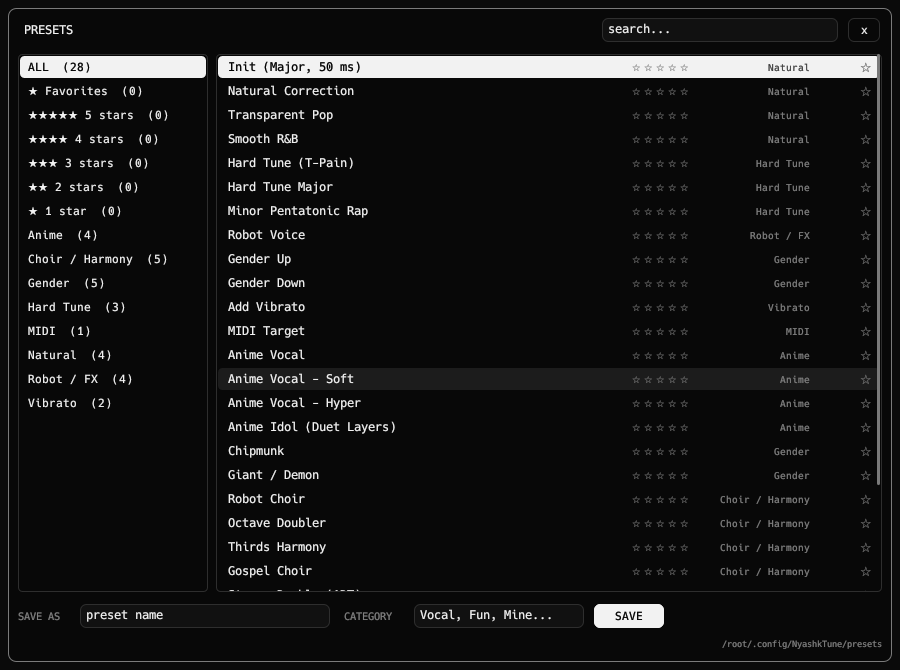
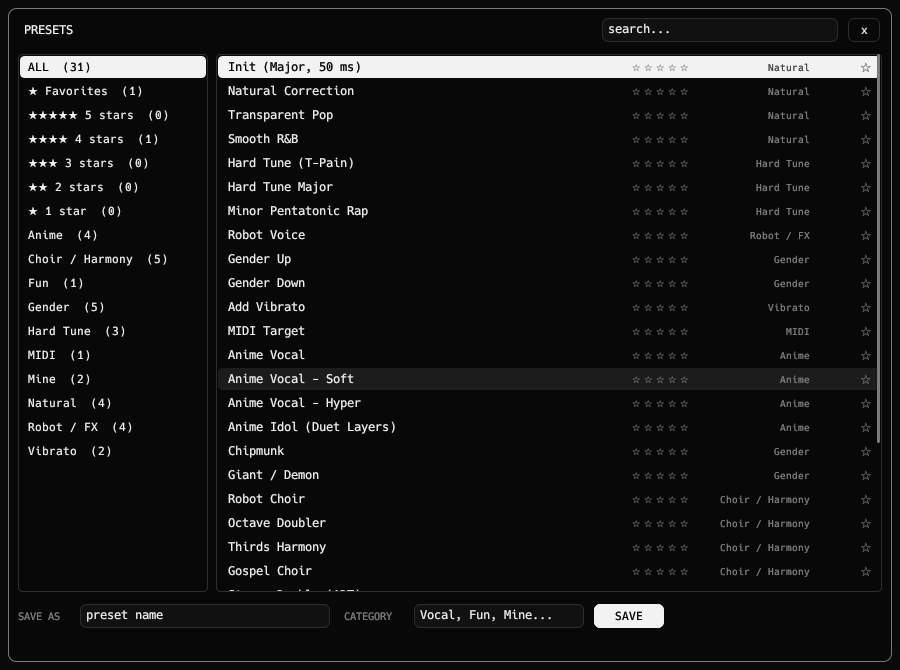
Preset browser like the synth: category folders, right-click Delete / Open folder; README and screenshots updated
Claude-Session: https://claude.ai/code/session_01EndxvcXZsUxUuBFyUHCgZr

diff --git a/plugins/nyashktune/src/editor.rs b/plugins/nyashktune/src/editor.rs
@@ -440,26 +440,51 @@ fn clean_preset_name(n: &str) -> String {
     n.trim().chars().filter(|c| !c.is_control() && !"/\\:*?\"<>|".contains(*c)).collect::<String>().trim().to_string()
 }
 
+fn user_path(name: &str, cat: &str) -> Option<std::path::PathBuf> {
+    let d = preset_dir()?;
+    let sub = d.join(cat).join(format!("{name}.nytune"));
+    if cat != "User" && sub.is_file() {
+        return Some(sub);
+    }
+    Some(d.join(format!("{name}.nytune")))
+}
+
+/// (name, category). Files inside a category folder belong to that category;
+/// loose files in the root use their `@cat=` line (or "User").
 fn list_user_presets() -> Vec<(String, String)> {
     let mut v: Vec<(String, String)> = Vec::new();
-    if let Some(d) = preset_dir() {
-        if let Ok(rd) = std::fs::read_dir(d) {
+    let Some(root) = preset_dir() else { return v };
+    let mut scan = |dir: &std::path::Path, folder_cat: Option<&str>| {
+        if let Ok(rd) = std::fs::read_dir(dir) {
             for e in rd.flatten() {
                 let path = e.path();
                 if path.extension().and_then(|x| x.to_str()) == Some("nytune") {
                     if let Some(n) = path.file_stem().and_then(|x| x.to_str()) {
-                        let cat = std::fs::read_to_string(&path)
-                            .ok()
-                            .and_then(|t| t.lines().find_map(|l| l.strip_prefix("@cat=").map(|c| c.trim().to_string())))
-                            .filter(|c| !c.is_empty())
-                            .unwrap_or_else(|| "User".to_string());
+                        let cat = match folder_cat {
+                            Some(c) => c.to_string(),
+                            None => std::fs::read_to_string(&path)
+                                .ok()
+                                .and_then(|t| t.lines().find_map(|l| l.strip_prefix("@cat=").map(|c| c.trim().to_string())))
+                                .filter(|c| !c.is_empty())
+                                .unwrap_or_else(|| "User".to_string()),
+                        };
                         v.push((n.to_string(), cat));
                     }
                 }
             }
         }
+    };
+    scan(&root, None);
+    if let Ok(rd) = std::fs::read_dir(&root) {
+        for e in rd.flatten() {
+            if e.path().is_dir() {
+                if let Some(c) = e.file_name().to_str() {
+                    scan(&e.path(), Some(c));
+                }
+            }
+        }
     }
-    v.sort_by_key(|a| a.0.to_lowercase());
+    v.sort_by_key(|a| (a.1.to_lowercase(), a.0.to_lowercase()));
     v
 }
 
@@ -500,7 +525,8 @@ fn save_user_preset(p: &NyashkTuneParams, name: &str, cat: &str) -> std::io::Res
     }
     let cat = clean_preset_name(cat);
     let cat = if cat.is_empty() { "User".to_string() } else { cat };
-    let dir = preset_dir().ok_or_else(|| std::io::Error::new(std::io::ErrorKind::NotFound, "no config folder"))?;
+    let root = preset_dir().ok_or_else(|| std::io::Error::new(std::io::ErrorKind::NotFound, "no config folder"))?;
+    let dir = if cat == "User" { root.clone() } else { root.join(&cat) };
     std::fs::create_dir_all(&dir)?;
     let mut out = String::from("NyashkTune preset v1\n");
     out.push_str(&format!("@cat={cat}\n"));
@@ -517,9 +543,9 @@ fn save_user_preset(p: &NyashkTuneParams, name: &str, cat: &str) -> std::io::Res
     Ok(name)
 }
 
-fn load_user_preset(setter: &ParamSetter, p: &NyashkTuneParams, name: &str) -> bool {
-    let Some(dir) = preset_dir() else { return false };
-    let Ok(text) = std::fs::read_to_string(dir.join(format!("{name}.nytune"))) else { return false };
+fn load_user_preset(setter: &ParamSetter, p: &NyashkTuneParams, name: &str, cat: &str) -> bool {
+    let Some(path) = user_path(name, cat) else { return false };
+    let Ok(text) = std::fs::read_to_string(path) else { return false };
     let mut map = std::collections::HashMap::new();
     for line in text.lines() {
         if let Some((k, v)) = line.split_once('=') {
@@ -545,10 +571,24 @@ fn load_user_preset(setter: &ParamSetter, p: &NyashkTuneParams, name: &str) -> b
     true
 }
 
-fn delete_user_preset(name: &str) {
-    if let Some(dir) = preset_dir() {
-        let _ = std::fs::remove_file(dir.join(format!("{name}.nytune")));
+/// Delete the file; a category folder left empty goes away too (never the root).
+fn delete_user_preset(name: &str, cat: &str) {
+    if let (Some(root), Some(path)) = (preset_dir(), user_path(name, cat)) {
+        let _ = std::fs::remove_file(&path);
+        if let Some(dir) = path.parent() {
+            if dir != root && dir.starts_with(&root) {
+                let _ = std::fs::remove_dir(dir);
+            }
+        }
     }
+}
+
+fn open_preset_folder(cat: &str) {
+    let Some(root) = preset_dir() else { return };
+    let d = if cat != "User" && root.join(cat).is_dir() { root.join(cat) } else { root };
+    let _ = std::fs::create_dir_all(&d);
+    let cmd = if cfg!(target_os = "windows") { "explorer" } else if cfg!(target_os = "macos") { "open" } else { "xdg-open" };
+    let _ = std::process::Command::new(cmd).arg(d).spawn();
 }
 
 fn install_fonts(ctx: &egui::Context) {
@@ -903,7 +943,7 @@ pub fn create(params: Arc<NyashkTuneParams>, meters: Arc<Meters>) -> Option<Box<
                             if i < n_fac {
                                 apply_preset(setter, p, i);
                                 st.user_sel = None;
-                            } else if load_user_preset(setter, p, &items[i].name) {
+                            } else if load_user_preset(setter, p, &items[i].name, &items[i].cat) {
                                 p.preset.store(u32::MAX, Ordering::Relaxed);
                                 st.user_sel = Some(items[i].name.clone());
                                 st.save_name = items[i].name.clone();
@@ -920,6 +960,19 @@ pub fn create(params: Arc<NyashkTuneParams>, meters: Arc<Meters>) -> Option<Box<
                             e.1 = v;
                             save_meta(&st.meta);
                         }
+                        BAct::Delete(i) => {
+                            let (n, c) = (items[i].name.clone(), items[i].cat.clone());
+                            delete_user_preset(&n, &c);
+                            st.user = list_user_presets();
+                            if st.user_sel.as_ref() == Some(&n) {
+                                st.user_sel = None;
+                            }
+                            if !st.user.iter().any(|(_, uc)| *uc == c) && st.bs.cat == c {
+                                st.bs.cat.clear();
+                            }
+                            st.msg = format!("deleted \"{n}\"");
+                        }
+                        BAct::OpenFolder(i) => open_preset_folder(&items[i].cat),
                         BAct::Close => st.browser = false,
                         BAct::None => {}
                     }
@@ -943,19 +996,8 @@ pub fn create(params: Arc<NyashkTuneParams>, meters: Arc<Meters>) -> Option<Box<
                             Err(e) => st.msg = format!("not saved: {e}"),
                         }
                     }
-                    if let Some(n) = st.user_sel.clone().filter(|_| cur_raw >= n_fac) {
-                        if pill(ui, Rect::from_min_size(Pos2::new(cr.right() + 88.0, y), Vec2::new(70.0, 24.0)), "DELETE", false) {
-                            delete_user_preset(&n);
-                            st.user = list_user_presets();
-                            st.user_sel = None;
-                            st.msg = format!("deleted \"{n}\"");
-                        }
-                    }
                     if !st.msg.is_empty() {
                         painter.text(Pos2::new(f.left(), y + 40.0), Align2::LEFT_CENTER, &st.msg, mono(10.0), MID);
-                    }
-                    if let Some(d) = preset_dir() {
-                        painter.text(Pos2::new(f.right(), y + 40.0), Align2::RIGHT_CENTER, d.display().to_string(), mono(9.0), DIM);
                     }
                     return;
                 }
@@ -1008,8 +1050,8 @@ pub fn create(params: Arc<NyashkTuneParams>, meters: Arc<Meters>) -> Option<Box<
                     if i < n_fac {
                         apply_preset(setter, p, i);
                         st.user_sel = None;
-                    } else if let Some((n, _)) = st.user.get(i - n_fac).cloned() {
-                        if load_user_preset(setter, p, &n) {
+                    } else if let Some((n, c)) = st.user.get(i - n_fac).cloned() {
+                        if load_user_preset(setter, p, &n, &c) {
                             p.preset.store(u32::MAX, Ordering::Relaxed);
                             st.user_sel = Some(n);
                         }
@@ -1335,9 +1377,11 @@ mod tests {
         let n = save_user_preset(&p, "Мій пресет: ♥", "Мої").unwrap();
         assert_eq!(n, "Мій пресет ♥");
         assert!(list_user_presets().contains(&(n.clone(), "Мої".to_string())));
-        let text = std::fs::read_to_string(preset_dir().unwrap().join(format!("{n}.nytune"))).unwrap();
+        let text = std::fs::read_to_string(preset_dir().unwrap().join("Мої").join(format!("{n}.nytune"))).unwrap();
         assert!(text.contains("retune=") && text.contains("fmode=") && text.contains("@note_bypass=0") && !text.contains("\nbypass="));
-        delete_user_preset(&n);
+        assert!(preset_dir().unwrap().join("Мої").is_dir());
+        delete_user_preset(&n, "Мої");
+        assert!(!preset_dir().unwrap().join("Мої").exists(), "empty category folder must go");
         assert!(!list_user_presets().iter().any(|(x, _)| *x == n));
         let _ = std::fs::remove_dir_all(&dir);
     }

diff --git a/plugins/nyashktune/src/browse.rs b/plugins/nyashktune/src/browse.rs
@@ -24,6 +24,8 @@ pub enum BAct {
     Pick(usize),
     Fav(usize),
     Rate(usize, u8),
+    Delete(usize),
+    OpenFolder(usize),
     Close,
 }
 
@@ -186,6 +188,18 @@ pub fn browser(ui: &mut Ui, rect: Rect, title: &str, items: &[BItem], sel: Optio
         }
         if resp.clicked() {
             act = BAct::Pick(i);
+        }
+        if it.user {
+            resp.context_menu(|ui| {
+                if ui.button("Delete").clicked() {
+                    act = BAct::Delete(i);
+                    ui.close_menu();
+                }
+                if ui.button("Open folder").clicked() {
+                    act = BAct::OpenFolder(i);
+                    ui.close_menu();
+                }
+            });
         }
     }
     if total > list_r.height() {

diff --git a/README.md b/README.md
@@ -44,7 +44,7 @@ Realtime vocal pitch correction, from transparent, natural-sounding tuning to th
 
 ### Preset browser
 
-`<` name `>` flips through presets, clicking the name opens the browser: categories, search, favourites, 1-5 star ratings, factory + your own presets. **SAVE** (header) opens it with the save line: name + category -> **SAVE**, **DELETE** removes a user preset.
+`<` name `>` flips through presets, clicking the name opens the browser: categories, search, favourites, 1-5 star ratings, factory + your own presets. **SAVE** (header) opens it with the save line: name + category -> **SAVE**. Each category is a folder inside the presets folder. **Right-click** one of your presets: **Delete** removes the file (an emptied category folder disappears too), **Open folder** shows it in your file manager.
 
 ### Latency
 
@@ -76,7 +76,7 @@ Chromatic · Major · Natural Minor · Harmonic Minor · Melodic Minor · Major 
 
 Init (Major, 50 ms) · Natural Correction · Transparent Pop · Smooth R&B · Hard Tune (T-Pain) · Hard Tune Major · Minor Pentatonic Rap · Robot Voice · Gender Up · Gender Down · Add Vibrato · MIDI Target · **Anime Vocal** · Anime Vocal - Soft · Anime Vocal - Hyper · Anime Idol (Duet Layers) · Chipmunk · Giant / Demon · Robot Choir · Octave Doubler · Thirds Harmony · Gospel Choir · Stereo Double (ADT) · Alien Throat · Wobbly Vibrato · Telephone Singer · Whisper Child · Formant Lab (LPC +3)
 
-The *Anime* presets are a bright, small-vocal-tract starting point (formants up, fast tune, airy top, an octave shimmer and a detuned double). Set KEY / SCALE (or **DETECT** it) for your song and trim Shift / Transpose to taste.
+The *Anime* presets are a bright, small-vocal-tract starting point (formants up, fast tune, airy top, an octave shimmer and a detuned double). Set KEY / SCALE for your song and trim Shift / Transpose to taste.
 
 </details>
 

diff --git a/RELEASE_NOTES.md b/RELEASE_NOTES.md
@@ -8,7 +8,7 @@ NyashkTune is a realtime vocal pitch correction (autotune) VST3 plugin.
 - **Antares-style extras**: Tracking, per-note BYPASS (right-click a note), Instrument range.
 - **Colour**: Air and Drive; vibrato shapes (Sine / Triangle / Saw / Wander).
 - **28 presets**, including *Anime Vocal* (+ Soft / Hyper / Idol), Chipmunk, Giant, Robot Choir, Gospel Choir and more.
-- Preset browser (categories, search, favourites, stars) with your own saved presets; module switches (Formant / Voices / Colour / Vibrato) that skip what is off.
+- Preset browser (categories, search, favourites, stars) with your own saved presets (category folders, right-click Delete / Open folder); module switches (Formant / Voices / Colour / Vibrato) that skip what is off.
 - New tabbed GUI (TUNE / FORMANT / VOICES).
 
 Downloads: `NyashkTune-<OS>-VST3.zip`. Unzip and copy `NyashkTune.vst3` into your VST3 folder (Linux `~/.vst3/`, Windows `C:\\Program Files\\Common Files\\VST3\\`, macOS `~/Library/Audio/Plug-Ins/VST3/`; macOS builds are unsigned: `xattr -dr com.apple.quarantine ~/Library/Audio/Plug-Ins/VST3/NyashkTune.vst3`).
